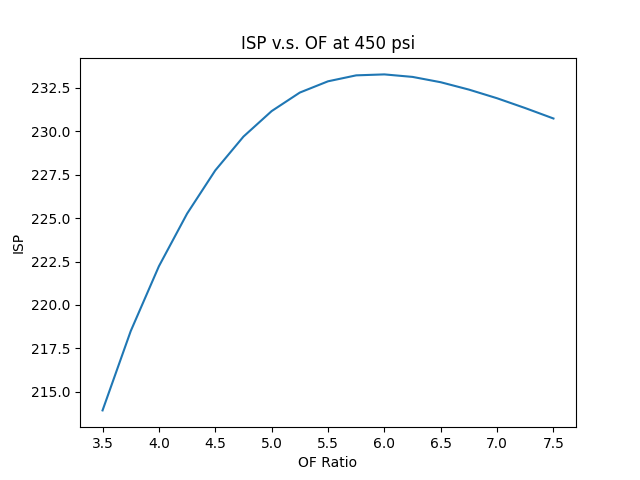
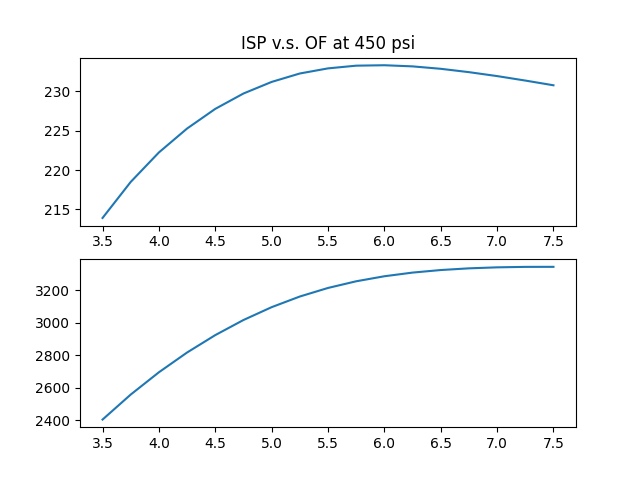
added more graphs

diff --git a/graphs.py b/graphs.py
@@ -11,10 +11,21 @@ Expansion Ratio v.s. OF
 """
 OF = df450["OF_RATIO"].to_numpy()
 ISP = df450["ISP"].to_numpy()
-plt.plot(OF,ISP)
-plt.xlabel("OF Ratio")
-plt.ylabel("ISP")
-plt.title("ISP v.s. OF at 450 psi")
+TEMP = df450["CHAMBER_TEMP"].to_numpy()
+
+fig, axs = plt.subplots(2)
+axs[0].plot(OF,ISP)
+axs[0].set_title("ISP v.s. OF at 450 psi")
+axs[0].set_xlabel("OF Ratio")
+axs[0].set_ylabel("ISP")
+
+axs[1].plot(OF,TEMP)
+axs[1].set_xlabel("OF Ratio")
+axs[1].set_ylabel("Chamber Temperature (K)")
+axs[1].set_title("Chamber Temp (K) v.s. OF at 450 psi")
+#axs[0].xlabel("OF Ratio")
+#axs[0].ylabel("ISP")
+#axs[0].title(f"ISP v.s. OF at {450} psi")
 plt.savefig("example.png")
 print(matplotlib.get_backend())
 
